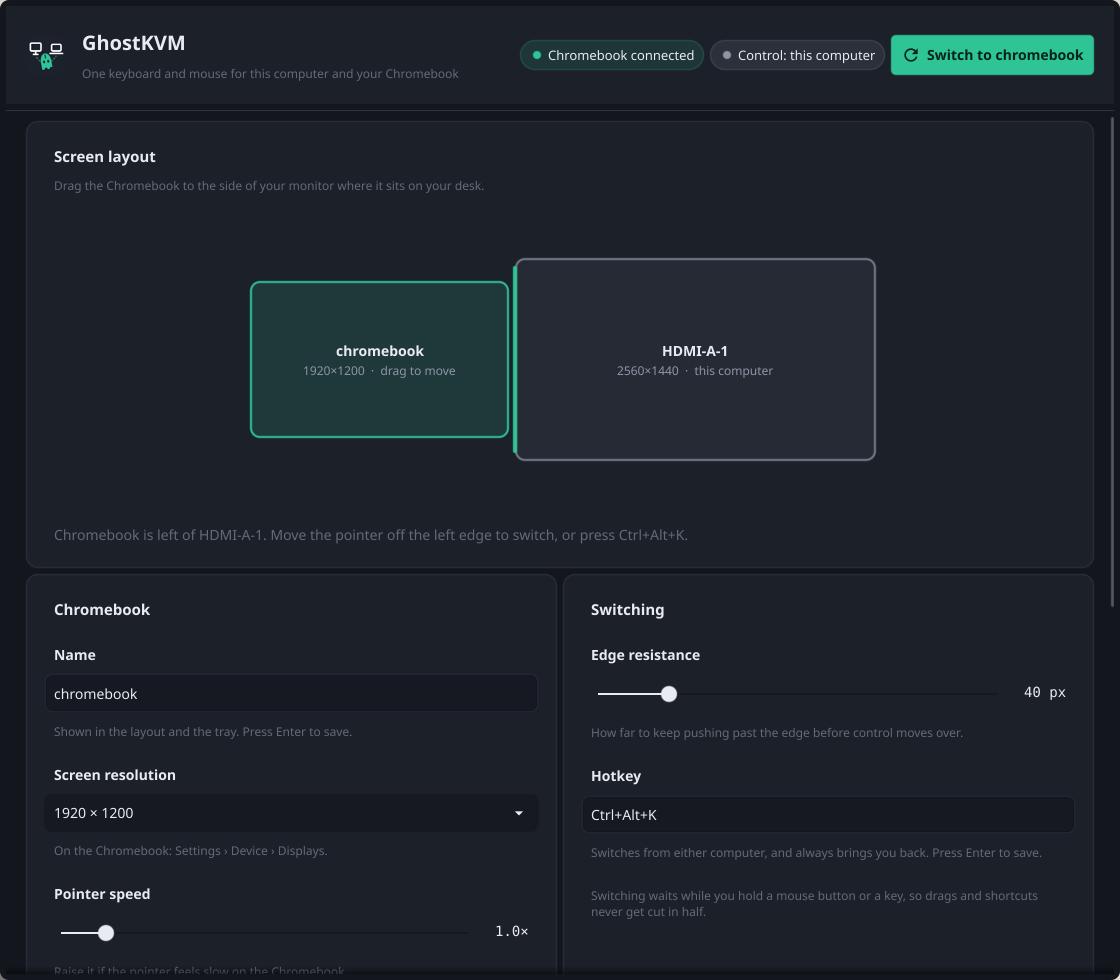
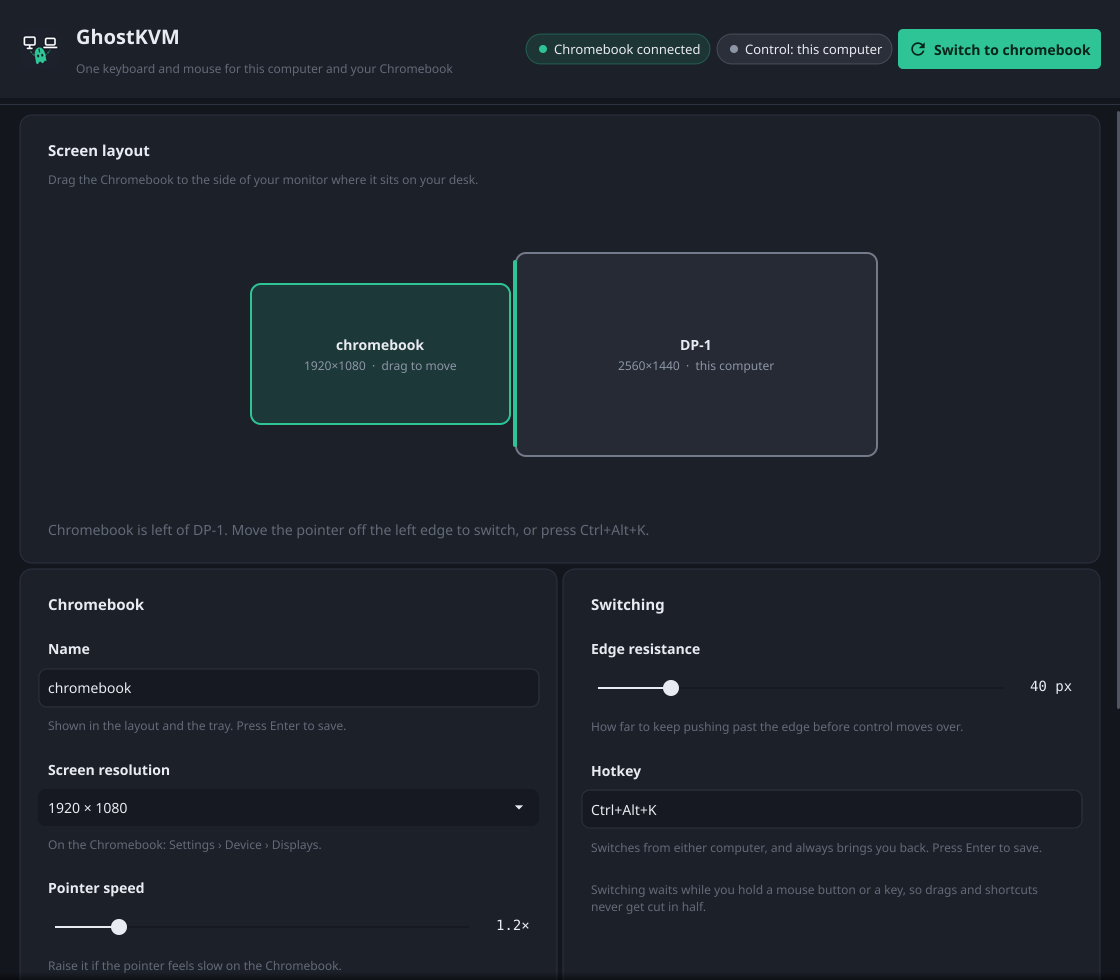
Render README and website screenshots from the app itself
make screenshots runs the real window code off-screen with Fyne's
software renderer and sample data (cmd/ghostkvm-screenshots, built with
-tags screenshots so the app binary does not carry the test driver).
Adds scenes for the Chromebook in control, two monitors, waiting and
light mode, and a screenshot gallery to the README and the website.

Also stop the window from applying settings while it fills its controls
at startup.

diff --git a/site/layouts/home.html b/site/layouts/home.html
@@ -59,6 +59,23 @@
   </div>
 </section>
 
+<section class="section gallery-section" aria-label="More screenshots">
+  <div class="wrap gallery">
+    <figure>
+      <img src="{{ "images/app-peer.png" | relURL }}" width="1120" height="640" alt="The Chromebook has control: its box and the status pill turn blue" loading="lazy">
+      <figcaption>Chromebook in control</figcaption>
+    </figure>
+    <figure>
+      <img src="{{ "images/app-two-monitors.png" | relURL }}" width="1120" height="640" alt="With two monitors: the Chromebook placed above the first one" loading="lazy">
+      <figcaption>Any side of any monitor</figcaption>
+    </figure>
+    <figure>
+      <img src="{{ "images/app-light.png" | relURL }}" width="1120" height="980" alt="The window in light mode" loading="lazy">
+      <figcaption>Light and dark mode</figcaption>
+    </figure>
+  </div>
+</section>
+
 <section class="section" id="how">
   <div class="wrap">
     <p class="eyebrow">How it works</p>

diff --git a/site/assets/css/main.css b/site/assets/css/main.css
@@ -144,6 +144,14 @@ p { margin: 0; }
   background: #13161d;
 }
 
+/* ---------------------------------------------------------------- gallery */
+.gallery-section { padding: 40px 0 0; }
+.gallery { display: grid; grid-template-columns: repeat(3, 1fr); gap: 20px; }
+@media (max-width: 820px) { .gallery { grid-template-columns: 1fr; } }
+.gallery figure { margin: 0; }
+.gallery img { width: 100%; aspect-ratio: 16 / 10; object-fit: cover; object-position: top; border-radius: var(--radius); border: 1px solid var(--line); box-shadow: var(--shadow); background: #13161d; }
+.gallery figcaption { margin-top: 10px; text-align: center; color: var(--muted); font-size: .92rem; }
+
 /* ---------------------------------------------------------------- sections */
 .section { padding: 88px 0; }
 .section-alt { background: var(--surface); border-block: 1px solid var(--line); }

diff --git a/cmd/ghostkvm-screenshots/main.go b/cmd/ghostkvm-screenshots/main.go
@@ -1,0 +1,103 @@
+//go:build screenshots
+
+// ghostkvm-screenshots renders GhostKVM's window with sample data and writes
+// the images used by the README and the website. It runs the real UI code
+// off-screen, so the pictures always match the app and never show the
+// machine they were made on.
+//
+//	go run -tags screenshots ./cmd/ghostkvm-screenshots docs/images
+package main
+
+import (
+	"image"
+	"image/png"
+	"log"
+	"os"
+	"path/filepath"
+
+	"fyne.io/fyne/v2"
+
+	"github.com/highercomve/GhostKVM/internal/config"
+	"github.com/highercomve/GhostKVM/internal/gui"
+	"github.com/highercomve/GhostKVM/internal/hypr"
+	"github.com/highercomve/GhostKVM/internal/kvm"
+)
+
+func sample() kvm.Status {
+	return kvm.Status{
+		Mode:      "desktop",
+		Connected: true,
+		Config: config.Config{
+			BluetoothName: "GhostKVM",
+			Hotkey:        "Ctrl+Alt+K",
+			EdgePush:      40,
+			Ignore:        []string{"YubiKey"},
+			Peer: config.Peer{
+				Name: "chromebook", Side: "left", Monitor: "DP-1",
+				Width: 1920, Height: 1080, Speed: 1.2,
+			},
+		},
+		Monitors: []hypr.Monitor{{Name: "DP-1", X: 0, Y: 0, Width: 2560, Height: 1440}},
+		Devices: []kvm.DeviceInfo{
+			{Path: "/dev/input/event3", Name: "Mechanical Keyboard", Kind: "keyboard", Used: true},
+			{Path: "/dev/input/event5", Name: "Wireless Mouse", Kind: "mouse", Used: true},
+			{Path: "/dev/input/event7", Name: "Security Key", Kind: "keyboard", Ignored: true},
+		},
+	}
+}
+
+func main() {
+	out := "docs/images"
+	if len(os.Args) > 1 {
+		out = os.Args[1]
+	}
+	if err := os.MkdirAll(out, 0o755); err != nil {
+		log.Fatal(err)
+	}
+	const cfg = "~/.config/ghostkvm/config.toml"
+
+	connected := sample()
+
+	peer := sample()
+	peer.Mode = "peer"
+
+	waiting := sample()
+	waiting.Connected = false
+
+	above := sample()
+	above.Config.Peer.Side = "top"
+	above.Monitors = []hypr.Monitor{
+		{Name: "DP-1", X: 0, Y: 0, Width: 2560, Height: 1440},
+		{Name: "HDMI-A-1", X: 2560, Y: 180, Width: 1920, Height: 1080},
+	}
+
+	scenes := []struct {
+		file  string
+		st    kvm.Status
+		size  fyne.Size
+		light bool
+	}{
+		{"app.png", connected, fyne.NewSize(1120, 980), false},
+		{"app-light.png", connected, fyne.NewSize(1120, 980), true},
+		{"app-peer.png", peer, fyne.NewSize(1120, 640), false},
+		{"app-waiting.png", waiting, fyne.NewSize(1120, 640), false},
+		{"app-two-monitors.png", above, fyne.NewSize(1120, 640), false},
+		{"app-full.png", connected, fyne.NewSize(1120, 1380), false},
+	}
+	for _, s := range scenes {
+		img := gui.Preview(s.st, cfg, s.size, s.light)
+		write(filepath.Join(out, s.file), img)
+	}
+}
+
+func write(path string, img image.Image) {
+	f, err := os.Create(path)
+	if err != nil {
+		log.Fatal(err)
+	}
+	defer f.Close()
+	if err := png.Encode(f, img); err != nil {
+		log.Fatal(err)
+	}
+	log.Print("wrote ", path)
+}

diff --git a/internal/gui/preview.go b/internal/gui/preview.go
@@ -1,0 +1,37 @@
+//go:build screenshots
+
+package gui
+
+import (
+	"image"
+
+	"fyne.io/fyne/v2"
+	"fyne.io/fyne/v2/test"
+
+	"github.com/highercomve/GhostKVM/internal/kvm"
+)
+
+// Preview renders the real main window off-screen for the given status,
+// with Fyne's software renderer. Built only with -tags screenshots (see
+// cmd/ghostkvm-screenshots), so the app binary does not carry the test driver.
+func Preview(st kvm.Status, cfgPath string, size fyne.Size, light bool) image.Image {
+	forcedLight = &light
+	fa := test.NewApp()
+	fa.Settings().SetTheme(ghostTheme{})
+	a := &App{cfgPath: cfgPath, fa: fa, cfg: st.Config}
+	w := fa.NewWindow("GhostKVM")
+	w.SetPadded(false)
+	w.SetContent(a.build())
+	w.Resize(size)
+	a.fillSettings()
+	a.update(st)
+	// The pills and labels got their text after the first layout; lay the
+	// window out again so their new sizes are used, as the live app does on
+	// its next status update.
+	w.Content().Refresh()
+	w.Resize(size.AddWidthHeight(1, 1))
+	w.Resize(size)
+	img := w.Canvas().Capture()
+	w.Close()
+	return img
+}

diff --git a/internal/gui/theme.go b/internal/gui/theme.go
@@ -48,11 +48,21 @@ func alpha(c color.NRGBA, a uint8) color.NRGBA { c.A = a; return c }
 
 // pal returns the palette for the variant Fyne is currently using.
 func pal() palette {
+	if forcedLight != nil {
+		if *forcedLight {
+			return lightPalette
+		}
+		return darkPalette
+	}
 	if fyne.CurrentApp() != nil && fyne.CurrentApp().Settings().ThemeVariant() == theme.VariantLight {
 		return lightPalette
 	}
 	return darkPalette
 }
+
+// forcedLight pins the palette for off-screen rendering (Preview); nil
+// means follow the system.
+var forcedLight *bool
 
 type ghostTheme struct{}
 
@@ -60,6 +70,9 @@ func (ghostTheme) Color(n fyne.ThemeColorName, v fyne.ThemeVariant) color.Color 
 	p := darkPalette
 	if v == theme.VariantLight {
 		p = lightPalette
+	}
+	if forcedLight != nil {
+		p = pal()
 	}
 	switch n {
 	case theme.ColorNameBackground:

diff --git a/internal/gui/gui.go b/internal/gui/gui.go
@@ -314,6 +314,11 @@ func (a *App) setupTray() {
 // ---------------------------------------------------------------- actions
 
 func (a *App) apply(c config.Config) {
+	// Controls fire their change handlers when fillSettings sets them; those
+	// are not user edits. Previews have no KVM behind them.
+	if a.filling || a.k == nil {
+		return
+	}
 	go func() {
 		err := a.k.Apply(c)
 		var st kvm.Status

diff --git a/README.md b/README.md
@@ -28,6 +28,19 @@
   <img src="docs/images/app.png" width="760" alt="The GhostKVM window: the Chromebook placed to the left of the desktop monitor, with pointer speed, edge resistance and hotkey settings">
 </p>
 
+<table>
+  <tr>
+    <td width="33%"><img src="docs/images/app-peer.png" alt="The Chromebook has control: its box and the status pill turn blue"></td>
+    <td width="33%"><img src="docs/images/app-two-monitors.png" alt="With two monitors: the Chromebook placed above the first one"></td>
+    <td width="33%"><img src="docs/images/app-light.png" alt="The window in light mode"></td>
+  </tr>
+  <tr>
+    <td align="center"><sub>Chromebook in control</sub></td>
+    <td align="center"><sub>Any side of any monitor</sub></td>
+    <td align="center"><sub>Follows light and dark mode</sub></td>
+  </tr>
+</table>
+
 ## Why GhostKVM
 
 Software KVMs such as Input Leap, Deskflow or Lan Mouse need a helper app on every
@@ -195,6 +208,7 @@ make build     # bin/ghostkvm
 make run       # build and start
 make vet       # go vet ./...
 make icons     # re-render the PNG icons from assets/*.svg (needs rsvg-convert)
+make screenshots   # re-render docs/images/app*.png from the real UI with sample data
 cd site && hugo server   # preview the website at http://localhost:1313/GhostKVM/
 make bletest   # bin/ghostkvm-bletest, a static binary for testing an adapter
 ```
